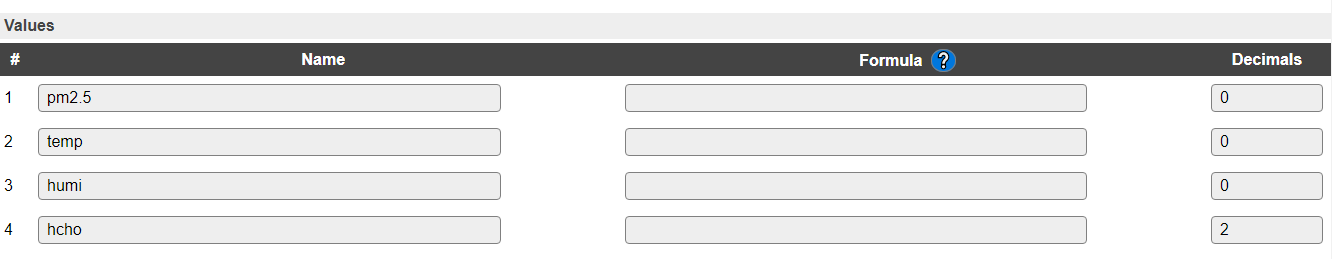
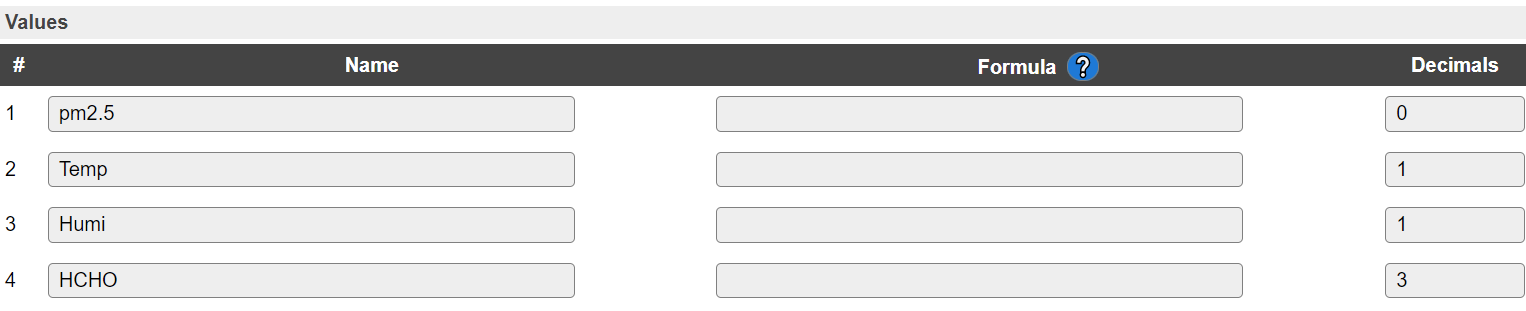
[PMSx003] Update documentation

diff --git a/docs/source/Plugin/P053.rst b/docs/source/Plugin/P053.rst
@@ -260,9 +260,12 @@ Select the option that shows the connected sensor model, to adjust the data retr
 Output
 ^^^^^^
 
-**Output values** With most **Sensor model** options, except the PMS2003 and PMS3003 models, extra output values are available. To choose which values are made available in the task, this combobox provides the available options
+Output values
+"""""""""""""
 
-.. note:: ``PMxx`` values relate to particles **less than or equal** to said size, while count/100ml relates to  particles of **at least** said size.
+With most **Sensor model** options, except the PMS2003 and PMS3003 models, extra output values are available. To choose which values are made available in the task, this combobox provides the available options.
+
+.. note:: Changing this output selector will toggle a reload of the page. When the output selection has changed, the task value names will be reset to their (new) default names and the nr. of decimals will be set to proper values. (e.g. 1 decimal for temp/hum and 3 decimals for Formaldehyde)
 
 Available options:
 
@@ -270,39 +273,48 @@ Available options:
 
 *Particles µg/m3: pm1.0, pm2.5, pm10* The default output values, available for all supported sensors.
 
-- PM1.0 - Concentration of particles < 1 micron (µg/m3)
-- PM2.5 - Concentration of particles < 2.5 micron (µg/m3)
-- PM10 - Concentration of particles < 10 micron (µg/m3)
+- ``PM1.0`` - Concentration of particles < 1 micron (µg/m3)
+- ``PM2.5`` - Concentration of particles < 2.5 micron (µg/m3)
+- ``PM10`` - Concentration of particles < 10 micron (µg/m3)
 
 *(As shown in the overview screenshot above)*
 
 *Particles µg/m3: pm2.5; Other: Temp, Humi, HCHO (PMS5003ST)* Particles > 2.5 micron (µg/m3) combined with other measurement values only supported by the PMS5003ST sensor.
 
-- PM2.5 - Concentration of particles < 2.5 micron (µg/m3)
-- Temp - Temperature
-- Humi - Humidity
-- HCHO - Formaldehyde concentration measurement (Formula: CH\ :sub:`2`\ O, or H-CHO)
+- ``PM2.5`` - Concentration of particles < 2.5 micron (µg/m3)
+- ``Temp`` - Temperature
+- ``Humi`` - Humidity
+- ``HCHO`` - Formaldehyde concentration measurement (Formula: CH\ :sub:`2`\ O, or H-CHO)
 
 .. image:: P053_OutputValues4.png
 
-*(Value names adjusted manually)*
+Two choices for particle counts in *count/0.1L* (PMS1003/5003(ST)/7003) :
 
-*Particles count/0.1L: cnt1.0, cnt2.5, cnt5, cnt10 (PMS1003/5003(ST)/7003)* Count of Particles per 0.1 L of air, available on the PMS1003, PMS5003, PMS5003ST and PMS7003 sensor models.
+- Particles count/0.1L: cnt1.0, cnt2.5, cnt5, cnt10
+- Particles count/0.1L: cnt0.3, cnt0.5, cnt1.0, cnt2.5
 
-- cnt0.3 - Count of particles > 0.3 micron per 0.1L of air
-- cnt0.5 - Count of particles > 0.5 micron per 0.1L of air
-- cnt1.0 - Count of particles > 1 micron per 0.1L of air
-- cnt2.5 - Count of particles > 2.5 micron per 0.1L of air
-- cnt5 - Count of particles > 5 micron per 0.1L of air
-- cnt10 - Count of particles > 10 micron per 0.1L of air
+With:
+
+- ``cnt0.3`` - Count of particles > 0.3 micron per 0.1L of air
+- ``cnt0.5`` - Count of particles > 0.5 micron per 0.1L of air
+- ``cnt1.0`` - Count of particles > 1 micron per 0.1L of air
+- ``cnt2.5`` - Count of particles > 2.5 micron per 0.1L of air
+- ``cnt5`` - Count of particles > 5 micron per 0.1L of air
+- ``cnt10`` - Count of particles > 10 micron per 0.1L of air
 
 .. image:: P053_OutputValuesCnt.png
 
-*(Value names adjusted manually)*
+.. note:: ``PMxx`` values relate to particles **less than or equal** to said size, while count/100ml relates to  particles of **at least** said size.
 
-When changing this option, the page will be reloaded, to display the adjusted number of output values.
 
-**Events for non-output values** When an option other than **None** is selected, the **Output values** that are not directly available, will be sent via events.
+Events for non-output values
+""""""""""""""""""""""""""""
+
+When an option other than **None** is selected, the **Output values** that are not directly available, will be sent via events.
+If there is some overlap in selected output values and the extra event selector, only those values which were not already sent as regular task values, will be sent in extra events.
+
+.. note:: The "Single event with all values" option only combines the 4 selected task values in 1 event. Extra events will only contain 1 value per event.
+
 
 Available options:
 
